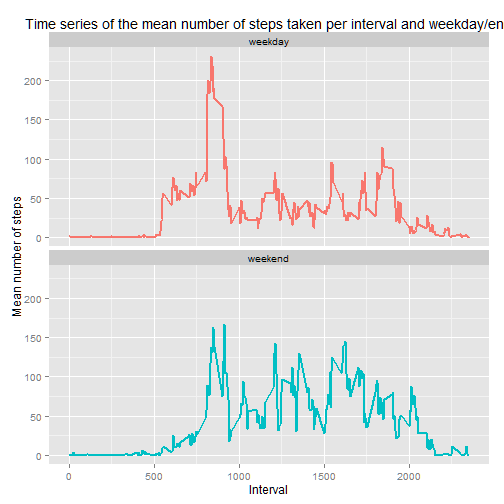
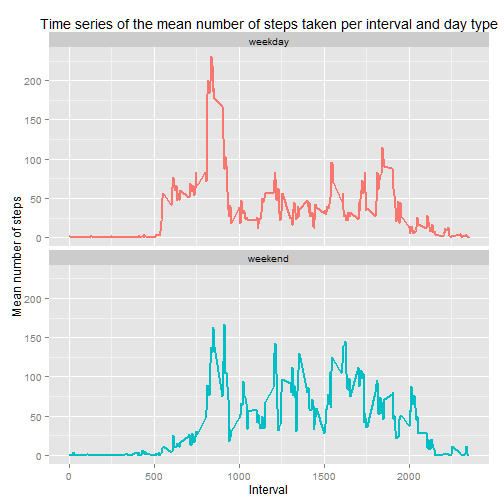
After final run

Changed region(s): [[0.0298, 0.0298, 1.0, 0.0595]]

diff --git a/PA1_template.html b/PA1_template.html
@@ -408,7 +408,7 @@ str(dt)
 ## 6:    NA 2012-11-30     2355
 </code></pre>
 
-<p>Last step is to set primary key for speedy evaluation</p>
+<p>Last step is to set <em>date</em> as primary key for speedy evaluation</p>
 
 <pre><code class="r">setkey(dt, date)
 str(dt)
@@ -528,7 +528,7 @@ Because data still has <em>NA</em> values, we will filter them out.
 To make a nice table, we will be using <a href="https://cran.r-project.org/web/packages/xtable/index.html">xtable</a>
 package.</p>
 
-<p>First, we make data table <em>tbl</em> filtering out <em>NA</em> values</p>
+<p>First, we make data table <em>tbl</em> filtering out <em>NA</em> values and computing mean and median.</p>
 
 <pre><code class="r">tbl &lt;- dt.steps_by_date[, list(N = .N,  mean = mean(steps, na.rm=TRUE), median = median(steps, na.rm=TRUE))]
 str(tbl)
@@ -548,7 +548,7 @@ str(tbl)
 
 <!-- html table generated in R 3.2.3 by xtable 1.8-0 package -->
 
-<!-- Sun Dec 20 17:40:35 2015 -->
+<!-- Sun Dec 20 17:51:48 2015 -->
 
 <table border=1>
 <tr> <th> N </th> <th> mean </th> <th> median </th>  </tr>
@@ -643,7 +643,8 @@ mia_date &lt;- sum(q)
 mia_interval &lt;- sum(q)
 </code></pre>
 
-<p>Number of missing intervals is equal to 0.</p>
+<p>Number of missing intervals is equal to 0.
+Thus, we believe there are no missing dates and intervals.</p>
 
 <blockquote>
 <h3>Devise a strategy for filling in all of the missing values in the dataset.</h3>
@@ -698,11 +699,14 @@ str(dt.imp)
 ## Total: 6MB
 </code></pre>
 
+<p>Now we have two data tables in the memory (along the other working tables).</p>
+
 <p>We will search in a loop for <em>NA</em>, and as soon sa it is found,
 we get interval and select mean value of steps from the helper
 data table. Value will be rounded to represent ordinal number of steps.
 Rounding will keep data reasonable, but it will slightly affect mean, median
-and similar values.</p>
+and similar values. As an alternative, one might consider imputing unaltered
+mean values. It is possible because we converted <em>steps</em> into <em>numeric</em>.</p>
 
 <pre><code class="r">for (k in seq_len(nrow(dt.imp))) {
     if (is.na(dt.imp$steps[k])) {
@@ -840,7 +844,7 @@ str(tbl.imp)
 
 <!-- html table generated in R 3.2.3 by xtable 1.8-0 package -->
 
-<!-- Sun Dec 20 17:40:52 2015 -->
+<!-- Sun Dec 20 17:52:03 2015 -->
 
 <table border=1>
 <tr> <th> N </th> <th> mean </th> <th> median </th>  </tr>
@@ -860,7 +864,7 @@ row.names(tbl.sum) &lt;- c(&quot;Original&quot;, &quot;Imputed&quot;)
 
 <!-- html table generated in R 3.2.3 by xtable 1.8-0 package -->
 
-<!-- Sun Dec 20 17:40:52 2015 -->
+<!-- Sun Dec 20 17:52:03 2015 -->
 
 <table border=1>
 <tr> <th>  </th> <th> N </th> <th> mean </th> <th> median </th>  </tr>
@@ -937,7 +941,7 @@ totaldays &lt;- weekends+weekdays
 </code></pre>
 
 <p>So we have 12960 weekdays and 4608 weekends in our data table
-for a total of 17568 (which is equal to the number of observations
+for a total of 17568 (which, in turn, is equal to the number of observations
 in the data table).</p>
 
 <blockquote>
@@ -950,19 +954,21 @@ Use the imputed values in the <code>steps</code> variable.</p>
 <pre><code class="r">dt.imp.meansteps &lt;- dt.imp[, list(mean = mean(steps, na.rm=TRUE)), by = list(wd, interval)]
 </code></pre>
 
-<p>Plot two time series (one for weekdays and the other for weekends) of the 5-minute intervals and average number of steps taken (imputed values).
+<p>Plot two time series (one for weekdays and the other for weekends) of the 5-minute intervals and average number of steps taken (using imputed values).
 We again use *<em>ggplot2</em>, with facets, to make multy-graph plot.</p>
 
 <pre><code class="r">p &lt;- ggplot(dt.imp.meansteps, aes(x=interval, y=mean, color=wd)) +
      facet_wrap(~wd, nrow=2) +
      geom_line(size = 1) +
-     labs(title=&quot;Time series of the mean number of steps taken per interval and weekday/end&quot;) +
+     labs(title=&quot;Time series of the mean number of steps taken per interval and day type&quot;) +
      labs(x=&quot;Interval&quot;, y=&quot;Mean number of steps&quot;) +
      theme(legend.position=&quot;none&quot;)
 print(p)
 </code></pre>
 
[2 lines of base64/hex data omitted]
+
+<p>As on can see, during weekend people tend to walk less, but in more uniform pattern.</p>
 
 <h2>Conclusion</h2>
 

diff --git a/PA1_template.md b/PA1_template.md
@@ -236,7 +236,7 @@ tail(dt)
 ## 6:    NA 2012-11-30     2355
 ```
 
-Last step is to set primary key for speedy evaluation
+Last step is to set *date* as primary key for speedy evaluation
 
 
 ```r
@@ -366,7 +366,7 @@ Because data still has *NA* values, we will filter them out.
 To make a nice table, we will be using [xtable](https://cran.r-project.org/web/packages/xtable/index.html)
 package.
 
-First, we make data table *tbl* filtering out *NA* values
+First, we make data table *tbl* filtering out *NA* values and computing mean and median.
 
 
 ```r
@@ -390,7 +390,7 @@ print(xtable(tbl), type="html", include.rownames=FALSE)
 ```
 
 <!-- html table generated in R 3.2.3 by xtable 1.8-0 package -->
-<!-- Sun Dec 20 17:40:35 2015 -->
+<!-- Sun Dec 20 17:51:48 2015 -->
 <table border=1>
 <tr> <th> N </th> <th> mean </th> <th> median </th>  </tr>
   <tr> <td align="right">  61 </td> <td align="right"> 10766.19 </td> <td align="right"> 10765.00 </td> </tr>
@@ -494,6 +494,7 @@ mia_interval <- sum(q)
 ```
 
 Number of missing intervals is equal to 0.
+Thus, we believe there are no missing dates and intervals.
 
 > ### Devise a strategy for filling in all of the missing values in the dataset.
 
@@ -552,11 +553,14 @@ tables()
 ## Total: 6MB
 ```
 
+Now we have two data tables in the memory (along the other working tables).
+
 We will search in a loop for *NA*, and as soon sa it is found,
 we get interval and select mean value of steps from the helper
 data table. Value will be rounded to represent ordinal number of steps.
 Rounding will keep data reasonable, but it will slightly affect mean, median
-and similar values.
+and similar values. As an alternative, one might consider imputing unaltered
+mean values. It is possible because we converted *steps* into *numeric*.
 
 
 ```r
@@ -717,7 +721,7 @@ print(xtable(tbl.imp), type="html", include.rownames=FALSE)
 ```
 
 <!-- html table generated in R 3.2.3 by xtable 1.8-0 package -->
-<!-- Sun Dec 20 17:40:52 2015 -->
+<!-- Sun Dec 20 17:52:03 2015 -->
 <table border=1>
 <tr> <th> N </th> <th> mean </th> <th> median </th>  </tr>
   <tr> <td align="right">  61 </td> <td align="right"> 10765.64 </td> <td align="right"> 10762.00 </td> </tr>
@@ -739,7 +743,7 @@ print(xtable(tbl.sum), type="html", include.rownames=TRUE)
 ```
 
 <!-- html table generated in R 3.2.3 by xtable 1.8-0 package -->
-<!-- Sun Dec 20 17:40:52 2015 -->
+<!-- Sun Dec 20 17:52:03 2015 -->
 <table border=1>
 <tr> <th>  </th> <th> N </th> <th> mean </th> <th> median </th>  </tr>
   <tr> <td align="right"> Original </td> <td align="right">  61 </td> <td align="right"> 10766.19 </td> <td align="right"> 10765.00 </td> </tr>
@@ -819,7 +823,7 @@ totaldays <- weekends+weekdays
 ```
 
 So we have 12960 weekdays and 4608 weekends in our data table
-for a total of 17568 (which is equal to the number of observations
+for a total of 17568 (which, in turn, is equal to the number of observations
 in the data table).
 
 > ### Make a panel plot containing a time series plot of the 5-minute interval (x-axis) and the average number of steps taken, averaged across all weekday days or weekend days (y-axis).
@@ -832,7 +836,7 @@ Use the imputed values in the `steps` variable.
 dt.imp.meansteps <- dt.imp[, list(mean = mean(steps, na.rm=TRUE)), by = list(wd, interval)]
 ```
 
-Plot two time series (one for weekdays and the other for weekends) of the 5-minute intervals and average number of steps taken (imputed values).
+Plot two time series (one for weekdays and the other for weekends) of the 5-minute intervals and average number of steps taken (using imputed values).
 We again use **ggplot2*, with facets, to make multy-graph plot.
 
 
@@ -840,13 +844,15 @@ We again use **ggplot2*, with facets, to make multy-graph plot.
 p <- ggplot(dt.imp.meansteps, aes(x=interval, y=mean, color=wd)) +
 	 facet_wrap(~wd, nrow=2) +
 	 geom_line(size = 1) +
-     labs(title="Time series of the mean number of steps taken per interval and weekday/end") +
+     labs(title="Time series of the mean number of steps taken per interval and day type") +
      labs(x="Interval", y="Mean number of steps") +
 	 theme(legend.position="none")
 print(p)
 ```
 
 ![plot of chunk time_series_average_steps_by_interval_wd_imp](figure/time_series_average_steps_by_interval_wd_imp-1.png) 
+
+As on can see, during weekend people tend to walk less, but in more uniform pattern.
 
 ## Conclusion
 
